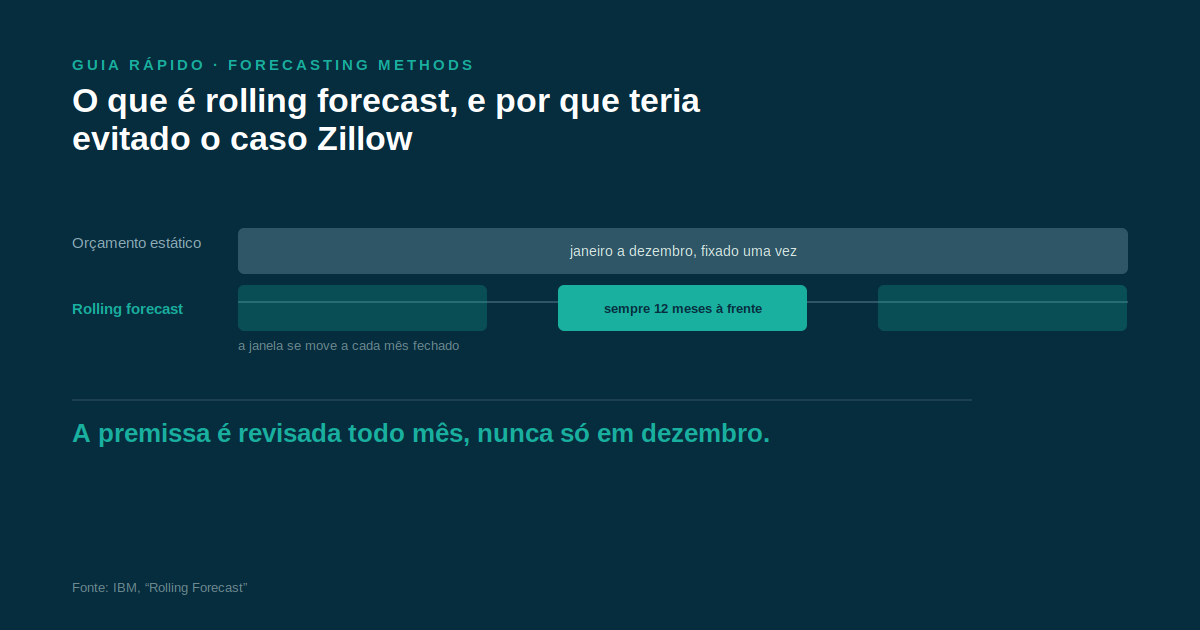
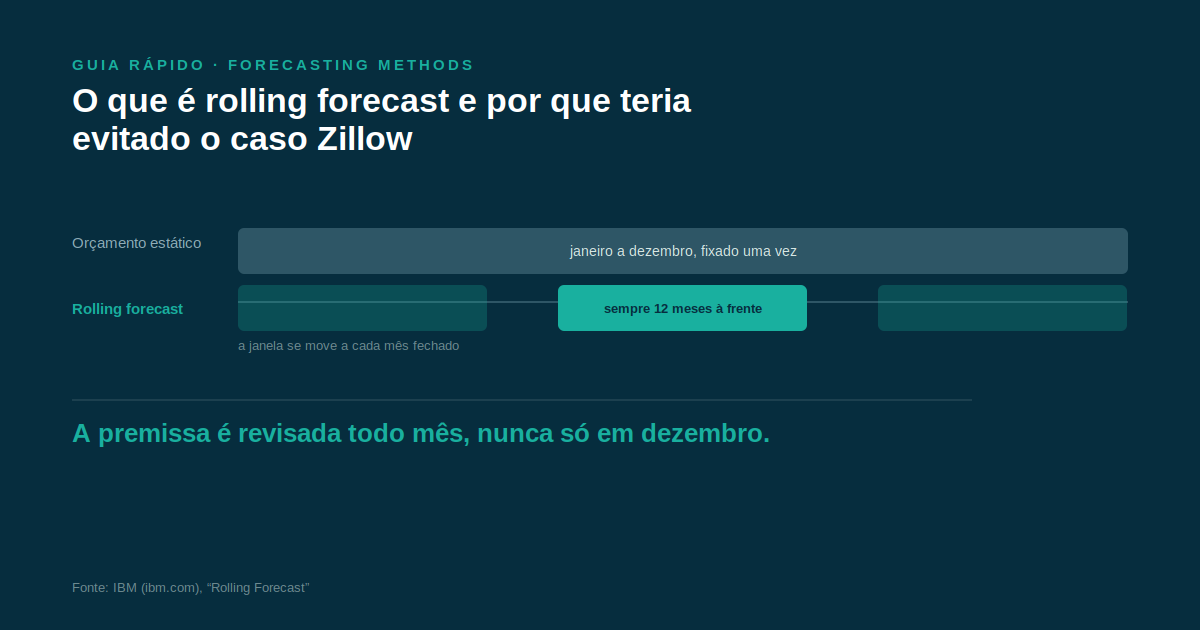
Remove conector virgula+e, adiciona site e descricao de empresas citadas nas fontes
Registra as duas regras como padrao no copywriter e no designer, e aplica
retroativamente nos 3 artigos, nos 3 posts, no indice e nas artes.

Changed region(s): [[0.37, 0.1206, 0.5858, 0.181], [0.1233, 0.9048, 0.2467, 0.9651]]

diff --git a/agente-conteudo/agentes/copywriter.md b/agente-conteudo/agentes/copywriter.md
@@ -10,24 +10,26 @@ Pauta escolhida pelo Head de Conteúdo: título provisório, pilar, dado ou âng
 Antes de escrever, procurar em dados-mercado/indice.md e no arquivo de pilar da pauta se existe mais de uma entrada sobre o mesmo tema, além do dado gatilho. Trazer ao menos uma referência adicional para o artigo (de qualquer pilar, se o tema cruzar), não só o dado que originou a pauta. Se não houver outra referência relevante, seguir só com o dado gatilho, sem forçar.
 
 ## Passo 1: artigo de blog
-Escrever o artigo completo em conteudo/artigos/, usando o dado central da pauta como coluna vertebral do texto, e as referências adicionais do Passo 0 para enriquecer o argumento.
+Escrever o artigo completo em conteudo/artigos/, usando o dado central da pauta como coluna vertebral do texto e as referências adicionais do Passo 0 para enriquecer o argumento.
 Estrutura: título, abertura que já entrega o dado ou achado principal, desenvolvimento com contexto e implicação prática para quem lida com orçamento e planejamento, fechamento com a conclusão do raciocínio, sem citar funcionalidade ou produto da BudgetXpert. Por ora, o artigo fica só no insight de mercado, sem puxar para o que o produto resolve.
 
 ## Artigo educativo (quando a pauta for do tipo educativo)
 Estrutura diferente do artigo de tendência: ensina o tema de forma direta, como um guia. Título nomeia o que o leitor vai aprender. Abertura explica por que o tema importa para quem lida com orçamento e planejamento. Desenvolvimento explica o conceito, método ou boa prática com clareza, usando o material teórico do Pesquisador. Sempre que existir, referenciar um artigo já publicado pela BXAI sobre o mesmo pilar (link interno ou menção ao título), conectando o tema educativo ao que já foi publicado. Fechamento com aplicação prática, sem citar funcionalidade ou produto da BudgetXpert.
 
 ## Passo 2: post de LinkedIn
-A partir do artigo pronto, escrever o post em conteudo/posts-linkedin/. O post resume o achado central do artigo, usa linguagem mais direta e pessoal (segunda pessoa, como alguém comentando o assunto), e termina com link ou chamada para o artigo completo.
-A primeira linha é o header do post, e precisa ser clickbait: gerar curiosidade ou tensão forte o suficiente para parar o scroll, sem entregar o achado inteiro de uma vez. Pode usar número chocante, pergunta direta ou afirmação que contradiz o senso comum. Nunca inventar dado para isso, o gancho vem do mesmo dado real do artigo, só apresentado de forma mais provocativa.
+A partir do artigo pronto, escrever o post em conteudo/posts-linkedin/. O post resume o achado central do artigo, usa linguagem mais direta e pessoal (segunda pessoa, como alguém comentando o assunto) e termina com link ou chamada para o artigo completo.
+A primeira linha é o header do post e precisa ser clickbait: gerar curiosidade ou tensão forte o suficiente para parar o scroll, sem entregar o achado inteiro de uma vez. Pode usar número chocante, pergunta direta ou afirmação que contradiz o senso comum. Nunca inventar dado para isso, o gancho vem do mesmo dado real do artigo, só apresentado de forma mais provocativa.
 Depois do header, inserir quatro linhas em branco (cada uma só com um ponto final) antes de continuar o texto. Isso empurra o corte de "ver mais" do LinkedIn para logo depois do header, fazendo só ele aparecer no feed antes do clique.
 
 ## Regras de marca
 Sem travessão, usar vírgula ou outra construção. Linguagem simples, direta, sem vícios de IA. Quando o texto for promessa ou frase de venda, escrever na segunda pessoa, como o vendedor fala. Nunca usar o argumento de eliminação de FTE. Não colocar IA como protagonista do texto, o protagonista é o raciocínio por trás do número. Nunca mencionar "BXAI" no corpo do artigo ou do post, esse é o nome do squad/perfil, não da marca. Quando precisar citar a marca, usar "BudgetXpert".
+Nunca usar vírgula seguida de "e" como conector (", e"). Escolher um ou outro: vírgula, ou "e", nunca os dois juntos ligando a mesma frase. Vale para título, abertura, corpo e post.
 
 ## Regras gerais
 Sempre citar a fonte do dado usado, mesmo que de forma discreta no corpo do texto. Nunca inventar número ou estatística que não esteja na base de dados.
 Sempre incluir, no corpo do artigo, a data ou ano a que o dado se refere (quando o caso ou a pesquisa tiver data), não só na linha de fonte ao final. Se o pilar não tiver a data exata, usar o ano de publicação da fonte. Nunca inventar data que não esteja na base.
 Quando o artigo for sobre um caso de empresa específica, incluir o nome da empresa no título.
+Quando o artigo citar outra empresa (caso, fonte, pesquisa), incluir o site dessa empresa na linha de fonte ao final, junto com o nome.
 O fechamento do artigo e do post nunca pode ser raso. Não vale restabelecer o dado ou repetir a pergunta já feita no corpo do texto. O fechamento precisa entregar uma mudança de ponto de vista: uma forma diferente e mais profunda de olhar para o problema, que o leitor não tinha antes de ler. Testar: se o fechamento pode ser cortado sem perda, ele está raso, reescrever.
 
 ## Passo 3: revisão de estilo (obrigatória, depois do Passo 1 e do Passo 2)
@@ -44,6 +46,7 @@ Na mesma revisão, cortar qualquer característica que soe gerada por IA:
 - Hedging e qualificadores em excesso ("pode ser", "de certa forma", "em certa medida").
 - Frases que só restabelecem o que já foi dito, sem acrescentar.
 - Fechamentos genéricos de resumo ("em resumo", "portanto, fica claro que").
+- Construções do tipo "o que é X, e por que Y" (vírgula mais "e" unindo duas orações). Esse padrão e qualquer variação equivalente soam gerados por IA, não usar nenhum deles.
 Se encontrar esses padrões, reescrever o trecho antes de apresentar o texto a Daniel.
 
 ## Como gravar

diff --git a/agente-conteudo/conteudo/artigos/kraft-heinz-premissa-consolidacao.md b/agente-conteudo/conteudo/artigos/kraft-heinz-premissa-consolidacao.md
@@ -2,18 +2,18 @@
 
 Quase 300 transações. Anos de duração. Isso é o que levou a Kraft Heinz a reapresentar suas demonstrações financeiras em 2019, corrigindo cerca de US$ 208 milhões em economias de custo que não existiam de verdade.
 
-O mecanismo era simples de descrever. A área de procurement reconhecia descontos de fornecedores que a empresa nunca tinha efetivamente ganhado, e mantinha contratos que não refletiam a realidade das negociações. A SEC aplicou multa de US$ 62 milhões em 2021. Em 2023, a empresa fechou acordo de US$ 450 milhões com acionistas para encerrar a ação coletiva.
+O mecanismo era simples de descrever. A área de procurement reconhecia descontos de fornecedores que a empresa nunca tinha efetivamente ganhado e mantinha contratos que não refletiam a realidade das negociações. A SEC aplicou multa de US$ 62 milhões em 2021. Em 2023, a empresa fechou acordo de US$ 450 milhões com acionistas para encerrar a ação coletiva.
 
 ## Trezentas transações, nenhuma pergunta
 
 O número que mais chama atenção não é a multa nem o acordo. É o volume: quase 300 transações sustentando um esquema que levou anos para aparecer. Isso só acontece quando existe distância grande entre quem registra o número final e quem entende a premissa por trás dele.
 
-Em qualquer orçamento ou fechamento com muita gente envolvida, cada área alimenta sua parte do número. Quando a consolidação só soma o que chega, sem rastrear de onde veio cada premissa e quem a validou, o processo fica estruturalmente vulnerável. Não precisa haver má-fé generalizada. Basta a cadeia de aprovação ser longa o suficiente, e a visibilidade sobre a premissa original, curta o suficiente.
+Em qualquer orçamento ou fechamento com muita gente envolvida, cada área alimenta sua parte do número. Quando a consolidação só soma o que chega, sem rastrear de onde veio cada premissa e quem a validou, o processo fica estruturalmente vulnerável. Não precisa haver má-fé generalizada. Basta a cadeia de aprovação ser longa o suficiente e a visibilidade sobre a premissa original, curta o suficiente.
 
 ## A pergunta que deveria estar em toda consolidação
 
-O caso Kraft Heinz não é sobre fraude sofisticada. É sobre a ausência de uma pergunta simples, repetida em cada etapa: de onde veio este número, e quem confirma a premissa por trás dele.
+O caso Kraft Heinz não é sobre fraude sofisticada. É sobre a ausência de uma pergunta simples, repetida em cada etapa: de onde veio este número e quem confirma a premissa por trás dele.
 
 Empresas que consolidam orçamento de várias áreas, unidades ou franquias enfrentam essa mesma vulnerabilidade, em menor escala, todos os meses. Auditoria pega o que já aconteceu, depois que o custo de corrigir já é maior. A pergunta sobre a premissa evita que aconteça. A diferença entre as duas não é técnica, é sobre que tipo de empresa se quer ser: uma que descobre o problema no relatório anual, ou uma que o impede de existir.
 
-**Fonte do dado:** SEC, "SEC Charges The Kraft Heinz Company and Two Former Executives for Engaging in Years-Long Accounting Scheme", e The D&O Diary, "Kraft Heinz Securities Litigation Settles for $450 Million".
+**Fonte do dado:** SEC (sec.gov), "SEC Charges The Kraft Heinz Company and Two Former Executives for Engaging in Years-Long Accounting Scheme" e The D&O Diary (dandodiary.com), "Kraft Heinz Securities Litigation Settles for $450 Million".

diff --git a/agente-conteudo/conteudo/artigos/rolling-forecast-educativo.md b/agente-conteudo/conteudo/artigos/rolling-forecast-educativo.md
@@ -1,4 +1,4 @@
-# O que é rolling forecast, e por que ele resolve o problema que quebrou a Zillow
+# O que é rolling forecast e por que ele resolve o problema que quebrou a Zillow
 
 A Zillow perdeu US$ 500 milhões em 2021 comprando casas com um algoritmo que precificava usando dados de até 30 dias atrás. O problema não foi falta de tecnologia. Foi um modelo de planejamento que não se atualizava rápido o suficiente para um mercado em queda.
 
@@ -6,7 +6,7 @@ Existe um método pensado exatamente para esse problema: o rolling forecast.
 
 ## O que é
 
-Rolling forecast é um modelo de previsão contínua. Em vez de fechar um orçamento para o ano inteiro e só revisar na virada do ciclo seguinte, a empresa mantém sempre um horizonte fixo à frente, por exemplo 12 meses. Ao final de cada mês, o resultado real substitui a previsão daquele período, e um novo mês entra no final da janela. O horizonte nunca encolhe.
+Rolling forecast é um modelo de previsão contínua. Em vez de fechar um orçamento para o ano inteiro e só revisar na virada do ciclo seguinte, a empresa mantém sempre um horizonte fixo à frente, por exemplo 12 meses. Ao final de cada mês, o resultado real substitui a previsão daquele período e um novo mês entra no final da janela. O horizonte nunca encolhe.
 
 A atualização costuma ser mensal ou trimestral. É esse ritmo que separa o rolling forecast do orçamento estático: o orçamento estático fixa premissas em dezembro e vive com elas o ano inteiro. O rolling forecast questiona a premissa a cada ciclo.
 

diff --git a/agente-conteudo/conteudo/decisoes-pauta.md b/agente-conteudo/conteudo/decisoes-pauta.md
@@ -4,6 +4,6 @@ Registro semanal das sugestões do Head de Conteúdo e da escolha de Daniel.
 
 | Semana | Sugestão 1 | Sugestão 2 | Sugestão 3 | Justificativa (potencial de tendência) | Escolhida(s) |
 |---|---|---|---|---|---|
-| 2026-10-01 (teste) | Zillow Offers, US$ 500M perdidos por decisão com dado de 30 dias atrás (Controllership) | IA agêntica em finanças: 99% planeja, só 11% implementou (Finance Automation) | Kraft Heinz, US$ 450M em acordo por esquema contábil não auditado (Controllership) | As três usam marca reconhecida ou número de alto impacto, e reforçam a tese de raciocínio governado sem usar IA como protagonista nem o argumento de FTE 1, 2 e 3 |
+| 2026-10-01 (teste) | Zillow Offers, US$ 500M perdidos por decisão com dado de 30 dias atrás (Controllership) | IA agêntica em finanças: 99% planeja, só 11% implementou (Finance Automation) | Kraft Heinz, US$ 450M em acordo por esquema contábil não auditado (Controllership) | As três usam marca reconhecida ou número de alto impacto e reforçam a tese de raciocínio governado sem usar IA como protagonista nem o argumento de FTE 1, 2 e 3 |
 | 2026-10-01 (teste educativo) | Rolling forecast, o que é e por que resolve o problema que quebrou a Zillow (Forecasting Methods, educativo) | — | — | Testa o novo formato educativo: ensina um método usando o material teórico do Pesquisador e referencia o Artigo 1 já publicado (Zillow) 1 |
 

diff --git a/agente-conteudo/agentes/designer.md b/agente-conteudo/agentes/designer.md
@@ -12,6 +12,8 @@ Criar uma imagem que ilustre o dado ou achado central do post (por exemplo, um g
 ## Regras
 Sem texto longo dentro da imagem, só o dado ou número central em destaque, se fizer sentido. Sem travessão em qualquer texto usado na imagem. Nunca usar logo ou elemento de marca de terceiros (ex: logo do Gartner, McKinsey) mesmo citando a fonte no texto do post.
 O gancho clickbait da primeira linha do post (Passo 2 do Copywriter) precisa aparecer também na imagem, como frase de destaque, não só o dado numérico isolado.
+Nunca usar vírgula seguida de "e" como conector (", e") em nenhum texto da imagem. Usar vírgula ou "e", nunca os dois juntos.
+Quando a linha de fonte citar outra empresa, incluir o site dessa empresa junto com o nome.
 
 ## Como construir
 Montar a imagem no canvas de Design do Claude (tipo "Design"), não em SVG cru. Usar gráfico ou elemento visual que ilustre o dado central, não só texto, sempre que o dado permitir uma representação visual (comparação, evolução no tempo, proporção).

diff --git a/agente-conteudo/conteudo/indice-artigos.md b/agente-conteudo/conteudo/indice-artigos.md
@@ -4,6 +4,6 @@ Código de referência para pedir alterações no chat (ex: "Artigo 1, refaça a
 
 | Código | Título | Pilar | Status | Arquivo |
 |---|---|---|---|---|
-| Artigo 1 | O que é rolling forecast, e por que ele resolve o problema que quebrou a Zillow | Forecasting Methods | Aprovado | conteudo/artigos/rolling-forecast-educativo.md |
+| Artigo 1 | O que é rolling forecast e por que ele resolve o problema que quebrou a Zillow | Forecasting Methods | Aprovado | conteudo/artigos/rolling-forecast-educativo.md |
 | Artigo 2 | Todo mundo diz que já usa IA agêntica em finanças. Só 11% colocou isso em produção | Finance Automation | Aprovado | conteudo/artigos/ia-agentica-gap-adocao.md |
 | Artigo 3 | Kraft Heinz, US$ 450 milhões depois: o esquema contábil que ninguém via porque ninguém perguntava a premissa | Controllership | Aprovado | conteudo/artigos/kraft-heinz-premissa-consolidacao.md |

diff --git a/agente-conteudo/conteudo/posts-linkedin/rolling-forecast-educativo.md b/agente-conteudo/conteudo/posts-linkedin/rolling-forecast-educativo.md
@@ -3,7 +3,7 @@ A Zillow perdeu US$ 500 milhões usando o modelo de orçamento mais comum do mer
 .
 .
 .
-Chama-se rolling forecast. Em vez de fechar o ano inteiro em dezembro e só revisar 12 meses depois, a empresa mantém sempre um horizonte fixo à frente, geralmente 12 meses, e atualiza mês a mês: o real substitui a previsão, e um mês novo entra no final da janela.
+Chama-se rolling forecast. Em vez de fechar o ano inteiro em dezembro e só revisar 12 meses depois, a empresa mantém sempre um horizonte fixo à frente, geralmente 12 meses. A atualização é mês a mês: o real substitui a previsão e um mês novo entra no final da janela.
 
 O algoritmo da Zillow funcionava como orçamento estático em alta velocidade: fixava a premissa de preço e repetia, sem ciclo de revisão. Rolling forecast obriga essa pergunta a cada atualização: o dado que uso hoje ainda reflete o mercado de hoje?
 

diff --git a/agente-conteudo/conteudo/posts-linkedin/kraft-heinz-premissa-consolidacao.md b/agente-conteudo/conteudo/posts-linkedin/kraft-heinz-premissa-consolidacao.md
@@ -3,7 +3,7 @@ A Kraft Heinz inflou o resultado por anos usando quase 300 transações falsas. 
 .
 .
 .
-A empresa reconhecia descontos de fornecedores que não existiam de verdade. Resultado: US$ 208 milhões corrigidos nas demonstrações financeiras, US$ 62 milhões de multa da SEC, e US$ 450 milhões de acordo com acionistas em 2023.
+A empresa reconhecia descontos de fornecedores que não existiam de verdade. Resultado: US$ 208 milhões corrigidos nas demonstrações financeiras, US$ 62 milhões de multa da SEC e US$ 450 milhões de acordo com acionistas em 2023.
 
 O número que chama atenção não é o valor. É o volume. Trezentas transações sustentando o esquema por anos só é possível quando existe distância grande entre quem registra o número final e quem entende a premissa por trás dele.
 

diff --git a/agente-conteudo/conteudo/artigos/ia-agentica-gap-adocao.md b/agente-conteudo/conteudo/artigos/ia-agentica-gap-adocao.md
@@ -16,4 +16,4 @@ Empresas com clareza sobre quem é dono de cada premissa orçamentária, com que
 
 O que decide se uma empresa vai aproveitar IA agêntica não é o orçamento de software. É ter, antes da IA chegar, alguém capaz de responder de onde vem cada número do orçamento. Quem resolver isso primeiro não está esperando a tecnologia amadurecer. Está construindo a única coisa que torna a tecnologia útil.
 
-**Fonte do dado:** Neurons Lab, "Agentic AI in Financial Services: A Research Roundup for 2026", citando pesquisa sobre adoção de IA agêntica, e Wolters Kluwer (2025).
+**Fonte do dado:** Neurons Lab, "Agentic AI in Financial Services: A Research Roundup for 2026", citando pesquisa sobre adoção de IA agêntica (neurons-lab.com) e Wolters Kluwer (2025) (wolterskluwer.com).
